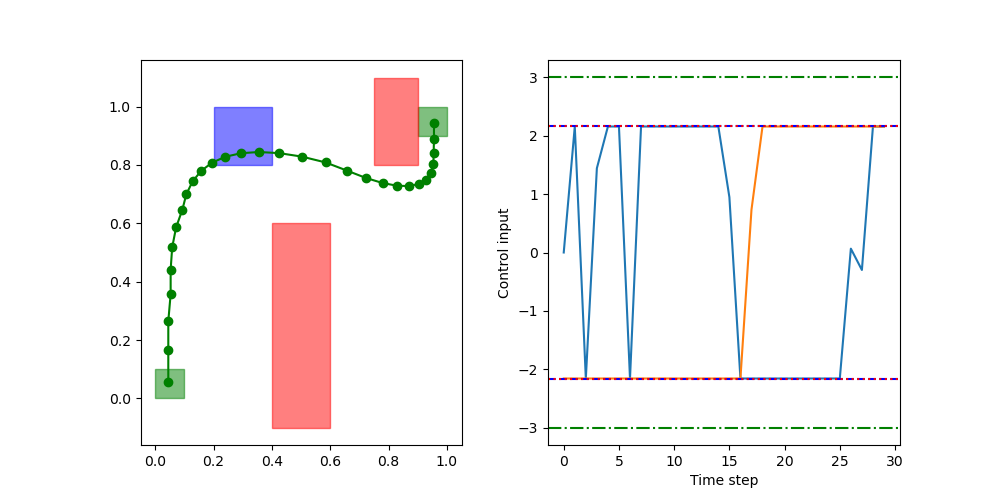
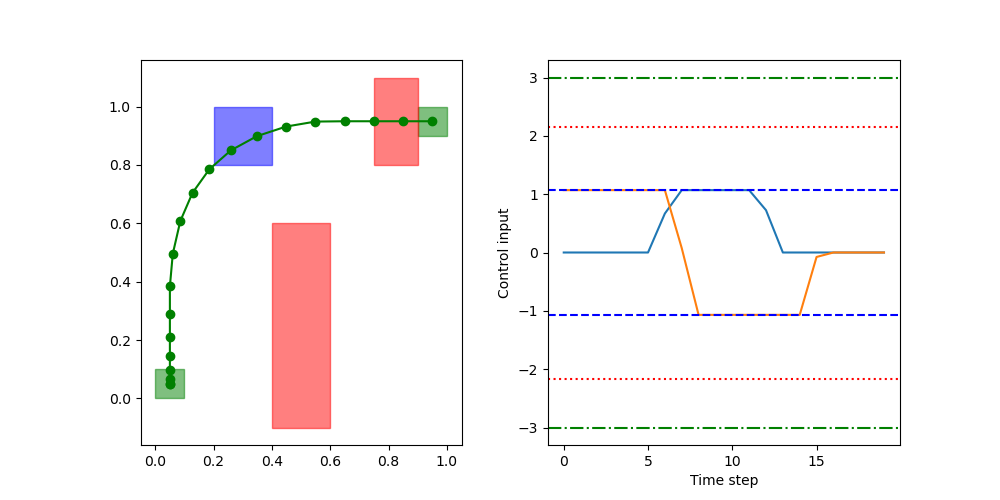
added 6dof freeflyer with p,r,y planning and quaternion conversion

diff --git a/Planning/main2DoF.py b/Planning/main2DoF.py
@@ -12,37 +12,37 @@ import os
 import sys
 parent_dir = os.path.abspath(os.path.join(os.path.dirname(__file__), '..'))
 sys.path.insert(0, parent_dir)
-from Utilities.Robots import LinearFreeFlyer2DoF, FreeFlyer, LinearBlueROV, BlueROV
-from Utilities.helpers import HyperRectangle, Polytope
+from Utilities.Robots import LinearFreeFlyer2DoF, FreeFlyer, LinearBlueROV, BlueROV, LinearFreeFlyer6DoF
+from Utilities.helpers import HyperRectangle, Polytope, euler_to_quat
 from Utilities.stl import Pred, Spec, quant_parse_operator, OptProbItems
 
 
 # hyperparameters
-N = 30     # number of time steps
-dt = 0.25    # time step size
+N = 20     # number of time steps
+dt = 0.5    # time step size
 t0 = 0      # initial time
 tf = N*dt   # final time
 
 bigM = 1e4
 
 # Robot
-sp_robot = LinearFreeFlyer2DoF()
+sp_robot = LinearFreeFlyer6DoF()
 
 # Specification
-X0 = HyperRectangle(np.array([0, 0]), np.array([0.1, 0.1]))
-Xf = HyperRectangle(np.array([0.90, 0.90]), np.array([1, 1]))
-XA = HyperRectangle(np.array([0.2, 0.8]), np.array([0.4, 1.0]))
+X0 = HyperRectangle(np.array([0, 0, 0]), np.array([0.1, 0.1, 0.1]))
+Xf = HyperRectangle(np.array([0.90, 0.90, 0]), np.array([1, 1, 0.1]))
+XA = HyperRectangle(np.array([0.2, 0.8, 0,  -np.pi/2-np.pi/8]), np.array([0.4, 1.0, 0.1,  -np.pi/2+np.pi/8]))
 Obs = [HyperRectangle(np.array([0.4, -0.1]), np.array([0.6, 0.6])),
        HyperRectangle(np.array([0.75, 0.8]), np.array([0.9, 1.1]))]
 World = HyperRectangle(np.array([0, 0, -10, -10]), np.array([1, 1, 10, 10]))
 
 phi = Pred("AND", preds=[
-    Pred("G", [t0,t0], preds=[Pred("MU", preds=[Polytope(X0)], dims=[0,1])]),
-    Pred("G", [tf,tf], preds=[Pred("MU", preds=[Polytope(Xf)], dims=[0,1])]),
-    Pred("F", [t0,tf], preds=[Pred("MU", preds=[Polytope(XA)], dims=[0,1])]),
-    Pred("G", [t0,tf], preds=[Pred("MU", preds=[Polytope(World)], dims=[0,1,2,3])]),
-    Pred("G", [t0,tf], preds=[Pred("NEG", preds=[Pred("MU", preds=[Polytope(Obs[0])], dims=[0,1])])]),
-    Pred("G", [t0,tf], preds=[Pred("NEG", preds=[Pred("MU", preds=[Polytope(Obs[1])], dims=[0,1])])])
+    Pred("G", [t0,t0], preds=[Pred("MU", preds=[Polytope(X0)], dims=[0,1,2])]),
+    Pred("G", [tf,tf], preds=[Pred("MU", preds=[Polytope(Xf)], dims=[0,1,2])]),
+    Pred("F", [t0,tf], preds=[Pred("MU", preds=[Polytope(XA)], dims=[0,1,2, 5])]),
+    Pred("G", [t0,tf], preds=[Pred("MU", preds=[Polytope(World)], dims=[0,1,6,7])]),
+    # Pred("G", [t0,tf], preds=[Pred("NEG", preds=[Pred("MU", preds=[Polytope(Obs[0])], dims=[0,1])])]),
+    # Pred("G", [t0,tf], preds=[Pred("NEG", preds=[Pred("MU", preds=[Polytope(Obs[1])], dims=[0,1])])])
 ])
 spec = Spec(phi, t0, tf)
 
@@ -53,9 +53,10 @@ if True:
     x_vars = opt.addMVar((N, sp_robot.n_x), lb=-np.inf, ub=np.inf, name="X")
     u_vars = opt.addMVar((N, sp_robot.n_u), lb=-np.inf, ub=np.inf, name="U")
     times = np.linspace(0, tf, N)
-
     alpha_vars = opt.addVar(lb=0, ub=1, name="alpha")
     opt.update()
+
+    items = OptProbItems(x_vars, u_vars, times)
 
     for i in range(N):
         opt.addConstrs((u_vars[i, j] >= alpha_vars*sp_robot.U_effective.lower_bounds[j] for j in range(2)))
@@ -63,14 +64,21 @@ if True:
 
     # constraints
     opt.addConstrs((x_vars[i+1,:] == sp_robot.step(x_vars[i, :], u_vars[i, :], dt) for i in range(N-1)))
+    sp_robot.add_state_constraints(opt, items)
+
+    # initial orientation and velocity constraints
+    opt.addConstr(x_vars[0, 3::] == np.zeros(sp_robot.n_x - 3))
+    opt.addConstr(x_vars[-1, 3::] >= np.zeros(sp_robot.n_x - 3))
 
     X = [var for var in opt.getVars() if "X" in var.VarName]
-
-    items = OptProbItems(x_vars, u_vars, times)
     quant_parse_operator(opt, spec.phi, items)
 
     cost_var = opt.addVar(lb=-np.inf, ub=np.inf, name="cost")
-    opt.addConstr(cost_var == 1*alpha_vars - 100*spec.phi.rho) # quad_cost
+    act_abs_var = opt.addMVar((N, sp_robot.n_u))
+    act_int_var = opt.addVar()
+    opt.addConstrs((act_abs_var[i,j] == gp.abs_(u_vars[i,j]) for i in range(N) for j in range(sp_robot.n_u)), name="act_int")
+    opt.addConstr(act_int_var == gp.quicksum([act_abs_var[i,j] for i in range(N) for j in range(sp_robot.n_u)]), name="act_int_sum")
+    opt.addConstr(cost_var == 1*alpha_vars - 10000*spec.phi.rho + 0.0001*act_int_var) # quad_cost
     opt.setObjective(cost_var, gp.GRB.MINIMIZE)
     opt.setParam('OutputFlag', 0)  # Suppress Gurobi output
     opt.optimize()
@@ -80,6 +88,8 @@ if True:
         denom = sp_robot.U_effective.scalar_multiply(alpha_vars.X)
         denom = denom.sum(sp_robot.KD)
         print(f"Beta from solving Prob 1: {denom.divide(sp_robot.U)}")
+        print(f"Spatial robustness: rho = {spec.phi.rho.X}")
+        print(f"Control integral summed: {act_int_var.X}")
         # print(f"Spatial robustness: {spec.phi.rho.X}")
         # for pred in spec.phi.preds:
         #     print(f"rhos: {pred.preds[-1].rhos.X }")
@@ -93,14 +103,17 @@ if True:
     x_ff = x_vars.X
     u_ff = u_vars.X
     alpha = alpha_vars.X
+    # save x_ff and u_ff to a csv file
+    np.savez('Planning/solutions/sp_solution.npz', x_ff=x_ff, u_ff=u_ff, dt=dt, alpha=alpha, times=times)
+
 else:
-    # load the solution
-    data = np.load("solutions/ff_solution.npz")
+    # or load instead
+    data = np.load('Planning/solutions/sp_solution.npz')
     x_ff = data['x_ff']
     u_ff = data['u_ff']
     alpha = data['alpha']
-
-t_sp = np.linspace(0, N*dt, N)
+    dt = data['dt']
+    # t_sp = data['times']
 
 # plot the trajectory
 fig, axs = plt.subplots(1,2, figsize=(10, 5))
@@ -124,18 +137,17 @@ axs[1].set_xlabel('Time step')
 axs[1].set_ylabel('Control input')
 plt.savefig("figures/sp_trajectory.png")
 
-# save x_ff and u_ff to a csv file
-np.savez('Planning/solutions/sp_solution.npz', x_ff=x_ff, u_ff=u_ff, dt=dt, alpha=alpha)
 
 
+# Now we have pitch-roll-yaw angles which we want to convert to unit quaternion
+x_ff_quat = np.zeros((x_ff.shape[0], x_ff.shape[1] + 1))
+for i in range(x_ff.shape[0]):
+    x_ff_quat[i, 0:3] = x_ff[i, 0:3]
+    x_ff_quat[i, 3:7] = euler_to_quat(x_ff[i, 3], x_ff[i, 4], x_ff[i, 5])
+    x_ff_quat[i, 7::] = x_ff[i, 6::]
 
-
-
-
-
-
-
-
+print(x_ff_quat[:, 3:7])
+print(np.linalg.norm(x_ff_quat[:, 3:7],axis=1))  # should be close to 1
 
 # feedback linearization controller for the underwater robot to behave like a free flyer
 uw_robot = BlueROV()

diff --git a/Utilities/Robots.py b/Utilities/Robots.py
@@ -1,8 +1,10 @@
 import numpy as np
 import casadi as cs
+import gurobipy as gp
 from Utilities.helpers import HyperRectangle, Zonotope
 from Utilities.helpers import skew_symmetric, q_to_rot_mat
 from Utilities.helpers import compute_K
+from Utilities.stl import OptProbItems
 
 
 class Robot:
@@ -41,6 +43,12 @@ class Robot:
         self.x += dx * dt
         return self.x
 
+    def add_state_constraints(self, prog:gp.Model, items:OptProbItems):
+        # Add constraitns on the state that are fundamental:
+        # - rotations in [0,2pi]
+        # - with additional wrapping? (TODO)
+        pass
+
 
 class LinearFreeFlyer2DoF(Robot):
     def __init__(self):
@@ -60,7 +68,7 @@ class LinearFreeFlyer2DoF(Robot):
                            [0, 0],
                            [1/20, 0],
                            [0, 1/20]])
-        self.K = compute_K(self.C, self.B)
+        self.K = compute_K(self.B, self.C)
 
         self.fx = lambda x: self.A@x
         self.gx = lambda x: self.B
@@ -93,24 +101,48 @@ class LinearFreeFlyer6DoF(Robot):
                                     [0, 0, 0, 0, 1/self.inertia, 0],
                                     [0, 0, 0, 0, 0, 1/self.inertia]])
         
-        self.C = np.zeros((12, 2))
-        self.C[6:8, :] = np.array([[1/20, 0],
-                                   [0, 1/20]])
-        self.K = compute_K(self.C, self.B)
+        self.C = np.zeros((12, 3))
+        # TODO: deal with positive and negative values here
+        self.C[6:9, :] = np.array([[1/20, 0, 0],
+                                   [0, 1/20, 0],
+                                   [0, 0, 1/20]])
+        self.K = np.linalg.pinv(self.B)@self.C #compute_K(self.B, self.C)
 
         self.fx = lambda x: self.A@x
         self.gx = lambda x: self.B
 
         self.U = HyperRectangle(np.array([-3, -3, -3, -0.5, -0.5, -0.5]),
                                 np.array([3, 3, 3, 0.5, 0.5, 0.5]))
-        self.D = HyperRectangle(np.array([-1, -1]),np.array([1, 1]))
+        self.D = HyperRectangle(np.array([-1, -1, -1]),np.array([1, 1, 1]))
 
         # self.U_effective = minkowski_difference(self.U, self.K@self.D)
+        # TODO: deal with the fact that K and D are not of same dimension
         self.KD = HyperRectangle(
-            self.K[6:,2:]@self.D.lower_bounds,
-            self.K[6:,2:]@self.D.upper_bounds
+            self.K@self.D.lower_bounds,
+            self.K@self.D.upper_bounds
         )
+
         self.U_effective = self.U.subtract(self.KD)
+
+    def add_state_constraints(self, prog:gp.Model, items:OptProbItems):
+        for i in range(items.x_vars.shape[0]):
+            # Add constraints for roll and yaw to be between [-pi, pi]
+            prog.addConstr(items.x_vars[i, 4] >= -np.pi, f"roll_lower_{i}")
+            prog.addConstr(items.x_vars[i, 4] <= np.pi, f"roll_upper_{i}")
+            prog.addConstr(items.x_vars[i, 5] >= -np.pi, f"yaw_lower_{i}")
+            prog.addConstr(items.x_vars[i, 5] <= np.pi, f"yaw_upper_{i}")
+
+            # Add constrains for pitch to be between [-pi/2, pi/2] (prevent gymbal lock)
+            prog.addConstr(items.x_vars[i, 3] >= -np.pi/2, f"pitch_lower_{i}")
+            prog.addConstr(items.x_vars[i, 3] <= np.pi/2, f"pitch_upper_{i}")
+
+            # Add constraints for the angular velocities to be between [-pi/8, pi/8]
+            prog.addConstr(items.x_vars[i, 9] >= -np.pi/8, f"p_lower_{i}")
+            prog.addConstr(items.x_vars[i, 9] <= np.pi/8, f"p_upper_{i}")
+            prog.addConstr(items.x_vars[i, 10] >= -np.pi/8, f"q_lower_{i}") 
+            prog.addConstr(items.x_vars[i, 10] <= np.pi/8, f"q_upper_{i}")
+            prog.addConstr(items.x_vars[i, 11] >= -np.pi/8, f"r_lower_{i}")
+            prog.addConstr(items.x_vars[i, 11] <= np.pi/8, f"r_upper_{i}")
 
 class FreeFlyer(Robot):
     def __init__(self):

diff --git a/Utilities/helpers.py b/Utilities/helpers.py
@@ -19,9 +19,9 @@ def exists_K(B, C, tol=1e-8):
 
 def compute_K(B, C, tol=1e-8):
     if exists_K(B, C, tol):
-        return B @ np.linalg.pinv(C)
+        return np.linalg.pinv(B)@C
     else:
-        raise ValueError("No K exists such that B = K C")
+        raise ValueError("No K exists such that C = BK")
     
 
 class HyperRectangle():
@@ -179,6 +179,25 @@ def v_dot_q(v, q):
     rot_mat = q_to_rot_mat(q)
 
     return cs.mtimes(rot_mat, v)
+
+def euler_to_quat(roll, pitch, yaw):
+    """
+    Convert Euler angles (roll, pitch, yaw) to quaternion (qw, qx, qy, qz).
+    Angles are in radians.
+    """
+    cy = np.cos(yaw * 0.5)
+    sy = np.sin(yaw * 0.5)
+    cr = np.cos(roll * 0.5)
+    sr = np.sin(roll * 0.5)
+    cp = np.cos(pitch * 0.5)
+    sp = np.sin(pitch * 0.5)
+
+    qw = cy * cr * cp + sy * sr * sp
+    qx = cy * sr * cp - sy * cr * sp
+    qy = sy * cr * cp + cy * sr * sp
+    qz = sy * sr * cp - cy * cr * sp
+
+    return np.array([qx, qy, qz, qw])
 
 # def skew_symmetric(v):
 #     return np.vstack((np.hstack((0, -v[0], -v[1], -v[2])),

diff --git a/Utilities/stl.py b/Utilities/stl.py
@@ -24,7 +24,7 @@ class Pred():
 
         # check that if preds[0] is a Polytope, dims is of same lenght as preds[0].H.shape[1]
         if len(preds) > 0 and isinstance(preds[0], Polytope):
-            if len(dims) != preds[0].H.shape[1]:
+            if len(dims) > preds[0].H.shape[1]:
                 raise ValueError("dims must be of same length as preds[0].H.shape[1]")
         self.dims = dims    # Dimensions that need to be considered for the polytope inequalities
 
